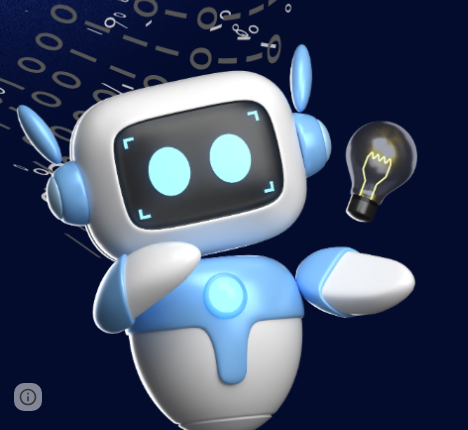
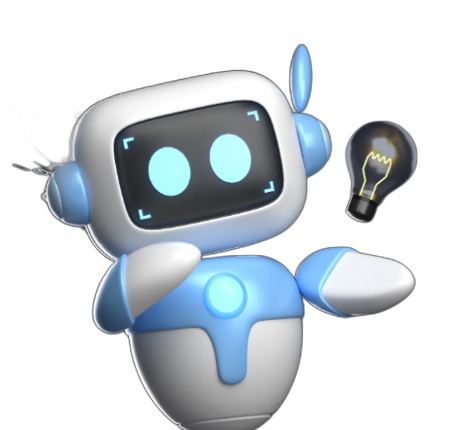
Remove robot background with AI and clean up blend mode

diff --git a/src/components/HeroSection.tsx b/src/components/HeroSection.tsx
@@ -40,10 +40,7 @@ export function HeroSection() {
           src={robot}
           alt="Robot Code4Change"
           className="w-72 lg:w-[22rem] xl:w-[26rem]"
-          style={{
-            mixBlendMode: "screen",
-            filter: "drop-shadow(0 0 32px rgba(6,182,212,0.35)) brightness(1.05) contrast(1.05)",
-          }}
+          style={{ filter: "drop-shadow(0 0 32px rgba(6,182,212,0.4))" }}
         />
       </motion.div>
 
